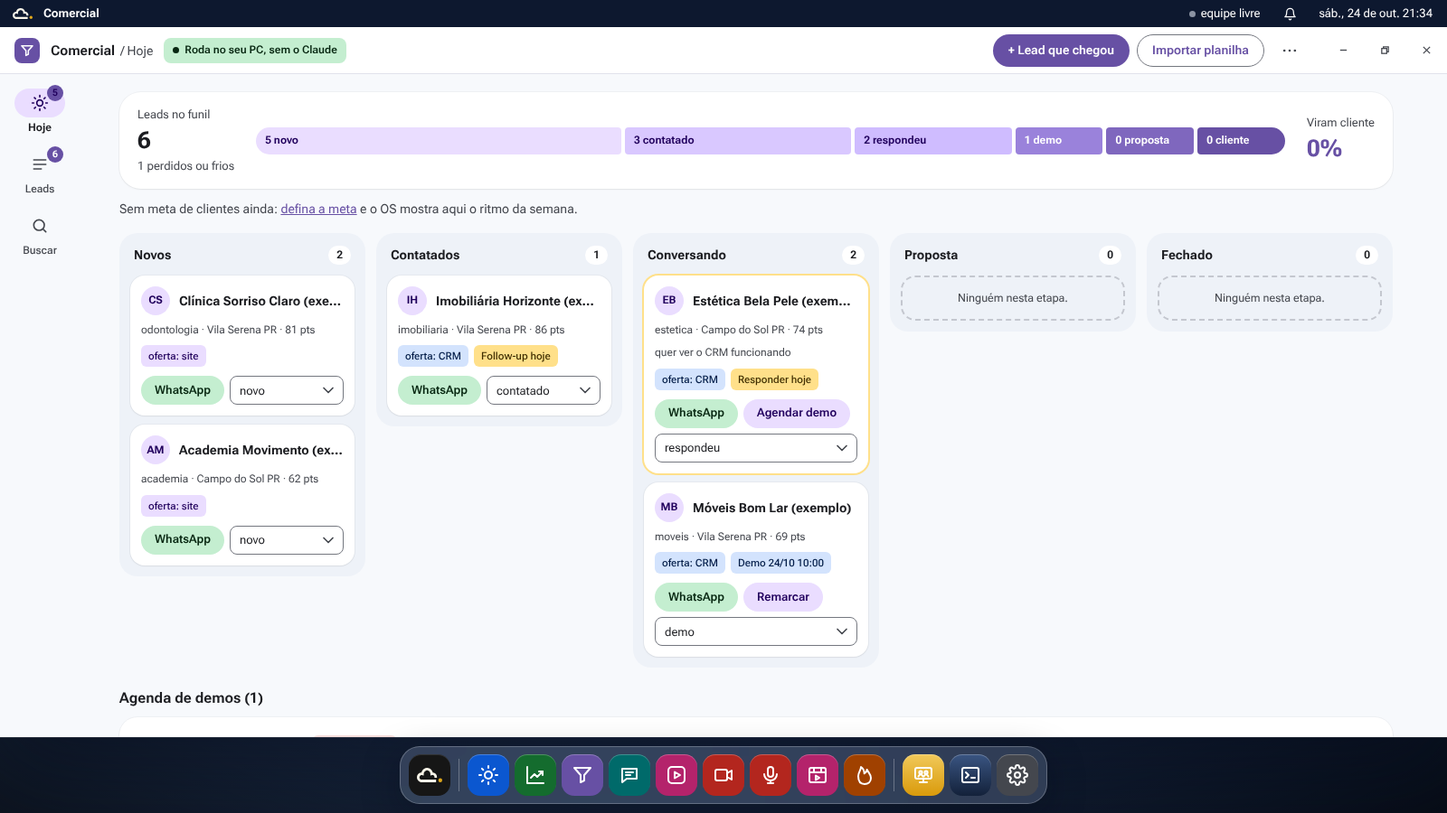
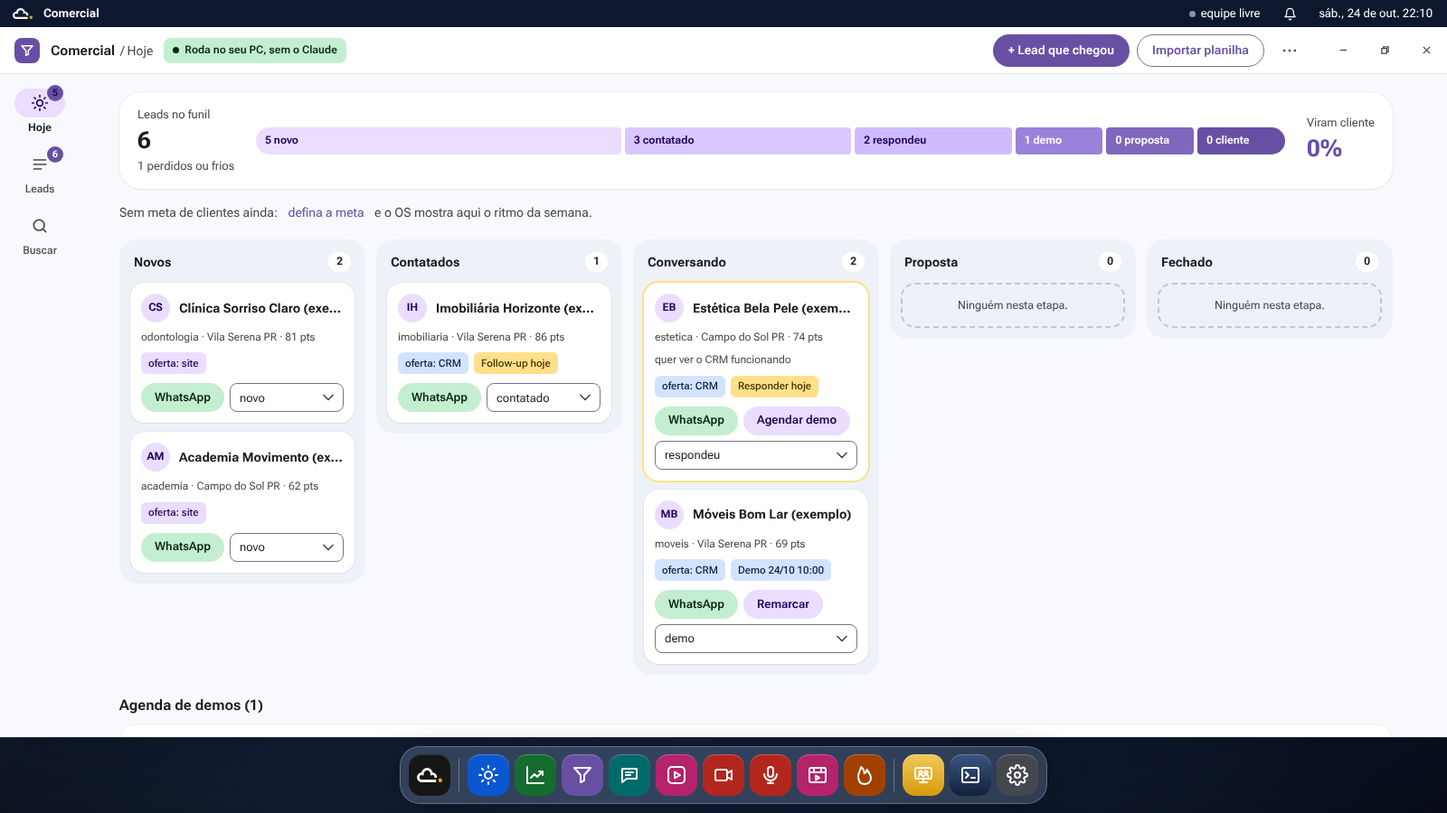
Segunda passada do visual: Conexões, Biblioteca (concorrentes, nichos, referências) e ações em texto
- Conexões: KPIs, cartão "Metricool visto pelos agentes" com cabeçalho, chip de situação, chips das redes e alerta tonal; tabela das redes com controle segmentado Ligada/Desligada e seletor tonal; provedores em cartões com chip de status e um único botão principal
- Concorrentes: avatar com iniciais, páginas vigiadas como chips de link e botões tonais
- Nichos: pilares em blocos, prioridade como medidor, Dor e Ganho em blocos tonais
- Referências: lista com bloco grande de views, chips de formato e pilar, botão tonal para o vídeo
- Links usados como ação viram botões de texto (Comercial, Atendimento, Conteúdo, Bom dia, Gerente)
- Alertas com borda vermelha à esquerda viram alertas tonais; selects dentro de tabelas ganham o estilo tonal
- Capturas da documentação atualizadas (comercial, atendimento, conteúdo)

Claude-Session: https://claude.ai/code/session_01EGWfUszHN2hFf65Augzvyr

diff --git a/central/escritorio/web/app.js b/central/escritorio/web/app.js
@@ -837,7 +837,7 @@ async function renderBriefing(j) {
   const texto = $('.objetivo-texto', j.corpo)?.value || '';
   const h = new Date().getHours(); const saud = h < 12 ? 'Bom dia' : h < 18 ? 'Boa tarde' : 'Boa noite';
   const data = new Date(`${d.data}T12:00:00`).toLocaleDateString('pt-BR', { weekday: 'long', day: 'numeric', month: 'long' });
-  const dono = (x) => (NOMES[x.dono] && x.dono !== 'você') ? `<a data-abrir="agente:${esc(x.dono)}" style="cursor:pointer">${sprite(x.dono, 16)} ${esc(nome(x.dono))}</a>` : `${esc(nome(x.dono))}`;
+  const dono = (x) => (NOMES[x.dono] && x.dono !== 'você') ? `<button type="button" class="bt-texto" data-abrir="agente:${esc(x.dono)}">${sprite(x.dono, 16)} ${esc(nome(x.dono))}</button>` : `${esc(nome(x.dono))}`;
   const top = d.itens.slice(0, 3); const resto = d.itens.slice(3);
   const botoesItem = (x, i) => `${destinoDoTexto(x.texto) ? `<button class="bt mini" data-fn="ir" data-i="${i}" title="Abre a janela certa">Abrir</button>` : ''}<button class="bt mini fantasma" data-fn="hojeNao" data-i="${i}" title="Some daqui até amanhã">Hoje não</button>`;
   j.corpo.innerHTML = `<div class="saudacao"><img src="/web/logo-marfim.svg" alt=""><div><h1>${saud}${EMPRESA.responsavel ? `, ${esc(EMPRESA.responsavel)}` : ''}</h1><p>${esc(data)}</p></div></div>
@@ -846,7 +846,7 @@ async function renderBriefing(j) {
   <h2>As 3 prioridades de hoje</h2><div class="lista">${top.map((x, i) => `<div class="prioridade"><span class="num">${i + 1}</span><div class="txt md">${md(x.texto).replace(/^<p>|<\/p>$/g, '')}<small>com ${dono(x)}</small></div><div class="acoes-item">${botoesItem(x, i)}</div></div>`).join('') || '<div class="vazio">Nada urgente. Bom dia para gravar conteúdo ou prospectar.</div>'}</div>
   <h2>Números</h2><div class="cartao md">${md(d.numeros.join('\n'))}</div>
   ${resto.length ? `<h2>Pendências</h2><div class="lista">${resto.map((x, k) => `<div class="linha-item"><div class="cresce md">${md(x.texto).replace(/^<p>|<\/p>$/g, '')}</div><small>${dono(x)}</small><div class="acoes-item">${botoesItem(x, k + 3)}</div></div>`).join('')}</div>` : ''}
-  ${adiados.length ? `<p class="sub">${adiados.length} item(ns) deixado(s) para amanhã · <a href="#" data-fn="mostrarAdiados">mostrar de novo</a></p>` : ''}
+  ${adiados.length ? `<p class="sub">${adiados.length} item(ns) deixado(s) para amanhã · <button type="button" class="bt-texto" data-fn="mostrarAdiados">Mostrar de novo</button></p>` : ''}
   <div class="acoes"><button class="bt pri" data-acao="briefing">${icone('play')} Atualizar briefing</button><button class="bt" data-acao="placar">Placar da semana</button><button class="bt" data-abrir="equipe">Equipe</button></div></div>`;
 }
 
@@ -1161,7 +1161,7 @@ function rumoCorpo(j, r) {
     ${ritmoFaixa(m)}
     ${m.avisos.length ? `<div class="lista" style="margin-top:8px">${m.avisos.map((a) => `<div class="linha-item achado medio"><span class="chip esperando">atenção</span><div class="cresce"><small style="white-space:normal">${esc(a)}</small></div></div>`).join('')}</div>` : ''}
     <details class="taxas"><summary>De onde vêm as taxas do funil</summary><table class="tab"><tr><th>Passo</th><th>Taxa</th><th>Origem</th><th>Seus números</th></tr>${Object.values(m.taxas).map((t) => `<tr><td>${esc(t.nome)}</td><td><b>${pctBr(t.valor)}</b></td><td><span class="chip ${ORIGEM[t.origem]}">${esc(t.origem)}</span></td><td>${esc(t.dados)}</td></tr>`).join('')}</table>
-      <p class="sub">A estimativa vira a sua taxa assim que houver dados suficientes (registre as abordagens, demos e testes no Comercial e no Financeiro). Para usar outro número, <a href="#" data-fn="meta">mude na meta</a>.</p></details>
+      <p class="sub">A estimativa vira a sua taxa assim que houver dados suficientes (registre as abordagens, demos e testes no Comercial e no Financeiro). Para usar outro número, <button type="button" class="bt-texto" data-fn="meta">mude na meta</button>.</p></details>
     <div class="acoes"><button class="bt" data-fn="meta">Mudar meta ou taxas</button><button class="bt pri" data-fn="crescer">Montar o plano de 90 dias com a equipe</button></div>`
     : `<div class="passos"><h2>Qual é a meta?</h2><p class="sub">Diga quantos clientes de CRM quer ter e até quando. O OS faz a conta de trás para frente: quantas abordagens, demos e testes grátis por semana, e mostra no Comercial se a semana está no ritmo.${m.sugestao ? ` Pelo Plano do ano, <b>${m.sugestao} clientes</b> pagam os custos e o seu pró-labore.` : ''}</p>
       <div class="acoes" style="margin-top:0"><button class="bt pri" data-fn="meta">Definir a meta</button></div></div>`;
@@ -1272,7 +1272,7 @@ async function renderComercial(j) {
       <li><button class="bt ${d.tem_consultas && !d.tem_resultado ? 'pri' : ''}" data-acao="sdr_buscar" ${d.tem_consultas && d.tem_buscador ? '' : 'disabled'}>Buscar no Google Maps</button>
         ${d.tem_buscador ? '<small class="neutro">leva de 5 a 30 minutos; acompanhe na janela que abre</small>' : '<small class="ruim">buscador não instalado: rode o instalar.cmd de novo</small>'}</li>
       <li><button class="bt ${d.tem_resultado ? 'pri' : ''}" data-acao="sdr_qualificar" ${d.tem_resultado ? '' : 'disabled'}>Qualificar o resultado</button> <small class="neutro">junta as empresas novas na sua lista de leads</small></li>
-      <li>Abra a aba <a data-fn="aba" data-aba="hoje" href="#">Hoje</a>: as melhores aparecem com a 1ª mensagem pronta.</li></ol></div>
+      <li>Abra a aba <button type="button" class="bt-texto" data-fn="aba" data-aba="hoje">Hoje</button>: as melhores aparecem com a 1ª mensagem pronta.</li></ol></div>
     <h2>Ou importe uma planilha</h2><p class="sub">De outra ferramenta, de um evento ou de uma lista que você já tem.</p><div class="acoes" style="margin-top:0"><button class="bt" data-fn="planilha">Importar planilha de leads</button></div>`;
   } else if (!d.funil) {
     corpo = `<div class="passos"><h2>Sem leads ainda</h2><ol><li><button class="bt pri" data-fn="aba" data-aba="buscar">Buscar empresas no Google Maps</button></li>
@@ -1290,8 +1290,8 @@ async function renderComercial(j) {
         <span class="chips-k">${chipOferta(l)}${l.agenda ? `<span class="chip trabalhando">Demo ${ddmm(l.agenda)} ${esc(l.agenda.slice(11, 16))}</span>` : hoje ? `<span class="chip esperando">${quente ? 'Responder hoje' : 'Follow-up hoje'}</span>` : ''}</span>
         <div class="acoes-k">${l.telefone ? `<a class="bt mini wa" href="${esc(zap(l.telefone))}" target="_blank" rel="noopener" title="${esc(l.telefone)}">WhatsApp</a>` : ''}${quente ? `<button class="bt mini tom" data-fn="agendar" data-id="${l.id}">${l.agenda ? 'Remarcar' : 'Agendar demo'}</button>` : ''}${etapaSel(l)}</div></article>`; };
     const quadro = `<div class="kanban">${COLS_LEAD.map(([k, r, ets]) => { const l = d.leads.filter((x) => ets.includes(x.etapa)).sort((a, b) => (+b.pontos || 0) - (+a.pontos || 0)); const mostra = l.slice(0, 6);
-      return `<section class="coluna" aria-label="${r}"><div class="coluna-cab"><b>${r}</b><span class="contador">${l.length}</span></div>${mostra.map(cartaoLead).join('') || '<div class="vazio-coluna">Ninguém nesta etapa.</div>'}${l.length > mostra.length ? `<a href="#" class="mais-k" data-fn="aba" data-aba="leads">+${l.length - mostra.length} em Leads</a>` : ''}</section>`; }).join('')}</div>`;
-    corpo = `${funil}${d.ritmo && d.ritmo.tem_meta ? ritmoFaixa(d.ritmo, true) : `<p class="sub" style="margin-top:12px">Sem meta de clientes ainda: <a href="#" data-fn="definirMeta">defina a meta</a> e o OS mostra aqui o ritmo da semana.</p>`}${quadro}
+      return `<section class="coluna" aria-label="${r}"><div class="coluna-cab"><b>${r}</b><span class="contador">${l.length}</span></div>${mostra.map(cartaoLead).join('') || '<div class="vazio-coluna">Ninguém nesta etapa.</div>'}${l.length > mostra.length ? `<button type="button" class="bt-texto mais-k" data-fn="aba" data-aba="leads">+${l.length - mostra.length} em Leads</button>` : ''}</section>`; }).join('')}</div>`;
+    corpo = `${funil}${d.ritmo && d.ritmo.tem_meta ? ritmoFaixa(d.ritmo, true) : `<p class="sub" style="margin-top:12px">Sem meta de clientes ainda: <button type="button" class="bt-texto" data-fn="definirMeta">defina a meta</button> e o OS mostra aqui o ritmo da semana.</p>`}${quadro}
     ${d.agenda.proximas.length ? `<h2>Agenda de demos (${d.agenda.proximas.length})</h2>${d.agenda.proximas.map((a, i) => msgSimples(a, i, 'agenda_proximas',
       `${esc(a.empresa)} <span class="chip ${a.dias === 0 ? 'erro' : 'esperando'}">${a.dias === 0 ? 'hoje' : a.dias === 1 ? 'amanhã' : ddmm(a.quando)} às ${esc(a.quando.slice(11, 16))}</span> <small class="neutro">${a.dias === 0 ? 'lembrete' : 'confirmação'}</small>`,
       `<a class="bt" href="${esc(a.agenda_google)}" target="_blank" rel="noopener">Google Agenda</a><button class="bt" data-fn="agendar" data-id="${a.id}">Remarcar</button>`)).join('')}` : ''}
@@ -1405,7 +1405,7 @@ async function renderConteudo(j) {
   const producao = `${kpisProd}${banner}${d.quadro.length ? `<div class="kanban">${COLUNAS.map(([k, r, vazio]) => { const l = porColuna[k]; const mostra = k === 'noar' ? l.slice(0, 6) : l;
     return `<section class="coluna" aria-label="${esc(r)}"><div class="coluna-cab"><b>${esc(r)}</b><span class="contador">${l.length}</span></div>${mostra.map(cartaoPost).join('') || `<div class="vazio-coluna">${esc(vazio)}</div>`}${l.length > mostra.length ? `<small class="neutro mais-k">+${l.length - mostra.length} mais antigos</small>` : ''}</section>`; }).join('')}</div>`
     : '<div class="vazio" style="margin-top:16px">Nenhum post na agenda. Cada roteiro vira um cartão aqui e anda pelas colunas até ir ao ar.<div class="acoes" style="justify-content:center"><button class="bt pri" data-abrir="objetivos">Semana de conteúdo</button><button class="bt" data-abrir="video">Novo roteiro no Estúdio</button></div></div>'}`;
-  const rodapeProducao = `<p class="sub rodape-k">Próximos horários livres (seg, qua e sex às 10h): ${d.horarios.map((h) => ddmm(h)).join(', ')}. Para criar posts novos: <a data-abrir="objetivos" style="cursor:pointer;color:var(--app)">Objetivos → Semana de conteúdo</a>.</p>`;
+  const rodapeProducao = `<p class="sub rodape-k">Próximos horários livres (seg, qua e sex às 10h): ${d.horarios.map((h) => ddmm(h)).join(', ')}. Para criar posts novos: <button type="button" class="bt-texto" data-abrir="objetivos">Objetivos → Semana de conteúdo</button>.</p>`;
   const analise = `<div class="acoes" style="margin-top:12px"><button class="bt pri" data-acao="relatorio">${icone('play')} Gerar o relatório da semana</button><button class="bt" data-fn="retrato">Anotar números novos</button>
     <button class="bt" data-fn="analisar" title="Abre o Claude com o analista">Discutir com o Analista</button></div>
     ${d.relatorio ? `<p class="sub">${esc(d.relatorio.arquivo)} · o que mudar está no fim.</p><div class="cartao md">${md(d.relatorio.texto)}</div>` : '<div class="vazio">Sem relatório ainda. Anote os números do Instagram e clique em <b>Gerar o relatório da semana</b>.</div>'}`;
@@ -1444,39 +1444,60 @@ async function renderConexoes(j) {
     exportar: () => rapido('social_exportar', {}, 'Histórico exportado'),
   };
   j.fns.mudarRede = ({ rede, campo }, el) => { operar('conexao_rede', campo === 'ativa' ? { rede, ativa: el.value === 'sim' } : { rede, via: el.value }).then((r) => { if (!r.ok) aviso({ titulo: 'Não deu', texto: r.saida, cor: '#C8442F' }); }); };
+  // piloto ligado/desligado num controle segmentado: mesmo pedido que o antigo <select>, só muda a marcação
+  j.fns.redeAtiva = ({ rede, v }, el) => { el.parentElement.querySelectorAll('button').forEach((b) => b.setAttribute('aria-pressed', String(b === el)));
+    operar('conexao_rede', { rede, ativa: v === 'sim' }).then((r) => { if (!r.ok) aviso({ titulo: 'Não deu', texto: r.saida, cor: '#C8442F' }); }); };
   const situacao = (p) => { const e = p.estado || {};
     if (!e.conectado && !(p.id === 'claude')) return '<span class="chip parado">não conectado</span>';
     if (e.ok === false) return `<span class="chip erro" title="${esc(e.mensagem || '')}">caiu${e.caiu_em ? ` em ${quandoBr(e.caiu_em)}` : ''}</span>`;
-    if (e.ok) return `<span class="chip trabalhando">conectado</span>`;
+    if (e.ok) return `<span class="chip pronto">conectado</span>`;
     return '<span class="chip">não checado</span>'; };
+  const alerta = (cor, html, extra = '') => `<div class="alerta-tonal ${cor}" role="status">${icone('aviso')}<div class="cresce">${html}</div>${extra}</div>`;
   const M = d.metricool || {};
   const redesMc = [...new Set([...(M.conectadas || []), ...(M.faltam || [])])];
-  const metricool = `<div class="cartao metricool-conf ${M.ok === false ? 'alerta' : ''}"><div class="cab-conexao"><b>Metricool visto pelos agentes</b>${M.ok === true ? `<span class="chip ${M.velha ? '' : 'trabalhando'}">${M.velha ? 'conferir de novo' : 'tudo certo'}</span>` : M.ok === false ? '<span class="chip erro">falta conectar</span>' : '<span class="chip">não conferido</span>'}
-      ${M.marca ? `<small class="neutro">marca ${esc(M.marca.nome)}</small>` : ''}</div>
-    <p class="sub" style="margin:4px 0">Antes de agendar, puxar números ou estudar concorrentes, os agentes conferem se as redes que o OS usa estão conectadas na marca do Metricool. Se faltar alguma, eles param e avisam.</p>
-    ${M.ok === false ? `<div class="linha-item achado alto"><small style="white-space:normal"><b>${esc(M.mensagem || '')}.</b> Entre em <a href="https://app.metricool.com/" target="_blank" rel="noopener">app.metricool.com</a> → Conexões, reconecte e clique em Conferir agora. Até lá o piloto segura os posts dessa rede.</small></div>` : ''}
-    ${redesMc.length ? `<div class="acoes-linha">${redesMc.map((r) => `<span class="chip ${(M.faltam || []).includes(r) ? 'erro' : 'pronto'}">${(M.faltam || []).includes(r) ? '✕' : '✓'} ${esc((M.nomes || {})[r] || r)}${M.contas && M.contas[r] ? ` · ${esc(M.contas[r])}` : ''}</span>`).join('')}</div>` : ''}
-    <div class="acoes-linha" style="margin-top:8px"><button class="bt mini pri" data-acao="metricool_conferir">Conferir agora</button><small class="neutro">${M.quando ? `conferido em ${quandoBr(M.quando)}` : 'ainda não conferido'}</small></div></div>`;
+  const chipMc = M.ok === true ? `<span class="chip ${M.velha ? 'esperando' : 'pronto'}">${M.velha ? 'conferir de novo' : 'tudo certo'}</span>` : M.ok === false ? '<span class="chip erro">falta conectar</span>' : '<span class="chip parado">não conferido</span>';
+  const metricool = `<section class="cartao cartao-conexao metricool-conf"><header class="cab-cartao"><span class="ic-tile">${icone('radar')}</span>
+      <div class="cresce"><b>Metricool visto pelos agentes</b><small>${M.marca ? `marca ${esc(M.marca.nome)}` : 'as redes que o OS usa, na marca do Metricool'}</small></div>${chipMc}</header>
+    <p class="sub">Antes de agendar, puxar números ou estudar concorrentes, os agentes conferem se as redes que o OS usa estão conectadas na marca do Metricool. Se faltar alguma, eles param e avisam.</p>
+    ${M.ok === false ? alerta('erro', `<b>${esc(M.mensagem || '')}.</b> Reconecte no Metricool (Conexões) e clique em Conferir agora. Até lá o piloto segura os posts dessa rede.`, '<a class="bt mini fantasma" href="https://app.metricool.com/" target="_blank" rel="noopener">Abrir o Metricool</a>') : ''}
+    ${redesMc.length ? `<div class="chips-linha">${redesMc.map((r) => `<span class="chip ${(M.faltam || []).includes(r) ? 'erro' : 'pronto'}">${(M.faltam || []).includes(r) ? '✕' : '✓'} ${esc((M.nomes || {})[r] || r)}${M.contas && M.contas[r] ? ` · ${esc(M.contas[r])}` : ''}</span>`).join('')}</div>` : ''}
+    <footer class="acoes-cartao"><button class="bt pri" data-acao="metricool_conferir">Conferir agora</button><small class="neutro">${M.quando ? `conferido em ${quandoBr(M.quando)}` : 'ainda não conferido'}</small></footer></section>`;
   const redes = Object.entries(d.redes).map(([rede, r]) => {
-    const opcoes = d.provedores.filter((p) => p.publica.includes(rede));
-    return `<tr><td><b>${esc(d.nomes_redes[rede])}</b></td><td><select data-mudar="mudarRede" data-rede="${rede}" data-campo="ativa"><option value="sim" ${r.ativa ? 'selected' : ''}>ligada</option><option value="nao" ${r.ativa ? '' : 'selected'}>desligada</option></select></td>
-      <td><select data-mudar="mudarRede" data-rede="${rede}" data-campo="via"><option value="">— escolha —</option>${opcoes.map((p) => `<option value="${p.id}" ${r.via === p.id ? 'selected' : ''}>${esc(p.nome)}</option>`).join('')}</select></td>
-      <td>${!r.via ? '<small class="neutro">sem provedor: não publica</small>' : r.ativa && ['claude', 'metricool'].includes(r.via) && (M.faltam || []).includes(rede) && M.ok === false ? '<span class="chip erro">desconectado no Metricool</span>' : situacao(porId[r.via])}</td></tr>`; }).join('');
+    const opcoes = d.provedores.filter((p) => p.publica.includes(rede)); const nomeR = d.nomes_redes[rede];
+    return `<tr><td><span class="rede-tab"><span class="avatar-ini">${esc(iniciais(nomeR))}</span><b>${esc(nomeR)}</b></span></td>
+      <td><div class="seg-mini" role="group" aria-label="Piloto · ${esc(nomeR)}"><button type="button" data-fn="redeAtiva" data-rede="${rede}" data-v="sim" aria-pressed="${r.ativa}">Ligada</button><button type="button" data-fn="redeAtiva" data-rede="${rede}" data-v="nao" aria-pressed="${!r.ativa}">Desligada</button></div></td>
+      <td><select class="sel-tonal" aria-label="Publica por · ${esc(nomeR)}" data-mudar="mudarRede" data-rede="${rede}" data-campo="via"><option value="">Escolha o provedor</option>${opcoes.map((p) => `<option value="${p.id}" ${r.via === p.id ? 'selected' : ''}>${esc(p.nome)}</option>`).join('')}</select></td>
+      <td>${!r.via ? '<span class="chip parado">sem provedor: não publica</span>' : r.ativa && ['claude', 'metricool'].includes(r.via) && (M.faltam || []).includes(rede) && M.ok === false ? '<span class="chip erro">desconectado no Metricool</span>' : situacao(porId[r.via])}</td></tr>`; }).join('');
   const cartao = (p) => { const e = p.estado || {}; const h = p.historico || {};
-    return `<div class="cartao conexao"><div class="cab-conexao"><b>${esc(p.nome)}</b>${situacao(p)}${e.conta ? `<small class="neutro">${esc(e.conta)}</small>` : ''}</div>
-      <p class="sub" style="margin:4px 0">${esc(p.ajuda)}${p.limite ? ` <span class="neutro">· ${esc(p.limite)}</span>` : ''}</p>
-      ${e.ok === false ? `<div class="linha-item achado alto"><small style="white-space:normal">${esc(e.mensagem || '')}</small></div>` : ''}
-      <small class="neutro">Redes: ${p.redes.map((r) => d.nomes_redes[r]).join(', ')}${e.ultima_checagem ? ` · checado em ${quandoBr(e.ultima_checagem)}` : ''}
-        · guardado no PC: ${h.publicacoes || 0} publicações, ${h.comentarios || 0} comentários${h.desde ? ` desde ${ddmm(h.desde)}` : ''}${h.ultima_sync ? ` · última sincronização ${quandoBr(h.ultima_sync)}` : ''}</small>
-      <div class="acoes-linha" style="margin-top:8px">${p.campos.length ? `<button class="bt mini ${e.conectado ? '' : 'pri'}" data-fn="conectar" data-id="${p.id}">${e.conectado ? 'Editar' : 'Conectar'}</button>` : ''}
-        ${p.oauth ? `<button class="bt mini ${p.logado ? '' : 'pri'}" data-fn="entrar" data-id="${p.id}">${p.logado ? 'Entrar de novo' : `Entrar com ${p.id === 'youtube' ? 'o Google' : 'o TikTok'}`}</button>` : ''}
-        <button class="bt mini" data-fn="checar" data-id="${p.id}">Checar agora</button>${e.conectado && p.campos.length ? `<button class="bt mini" data-fn="desconectar" data-id="${p.id}">Desconectar</button>` : ''}</div></div>`; };
+    const bts = [];
+    if (p.campos.length) bts.push(['conectar', e.conectado ? 'Editar' : 'Conectar', !e.conectado]);
+    if (p.oauth) bts.push(['entrar', p.logado ? 'Entrar de novo' : `Entrar com ${p.id === 'youtube' ? 'o Google' : 'o TikTok'}`, !p.logado]);
+    const iPri = bts.findIndex((b) => b[2]); // um botão cheio por cartão; os outros com tom
+    return `<article class="cartao cartao-conexao"><header class="cab-cartao"><span class="ic-tile">${esc(iniciais(p.nome))}</span>
+        <div class="cresce"><b>${esc(p.nome)}</b><small>${e.conta ? esc(e.conta) : e.ultima_checagem ? `checado em ${quandoBr(e.ultima_checagem)}` : 'ainda não checado'}</small></div>${situacao(p)}</header>
+      <p class="sub">${esc(p.ajuda)}</p>${p.limite ? `<p class="limite-conexao">${esc(p.limite)}</p>` : ''}
+      ${e.ok === false ? alerta('erro', esc(e.mensagem || '')) : ''}
+      <div class="chips-linha">${p.redes.map((r) => `<span class="chip">${esc(d.nomes_redes[r])}</span>`).join('')}</div>
+      <small class="neutro">Guardado no PC: ${h.publicacoes || 0} publicações e ${h.comentarios || 0} comentários${h.desde ? ` desde ${ddmm(h.desde)}` : ''}${h.ultima_sync ? ` · sincronizado em ${quandoBr(h.ultima_sync)}` : ''}</small>
+      <footer class="acoes-cartao">${bts.map(([fn, rot], i) => `<button class="bt mini ${i === iPri ? 'pri' : 'tom'}" data-fn="${fn}" data-id="${p.id}">${rot}</button>`).join('')}
+        <button class="bt mini fantasma" data-fn="checar" data-id="${p.id}">Checar agora</button>${e.conectado && p.campos.length ? `<button class="bt mini fantasma" data-fn="desconectar" data-id="${p.id}">Desconectar</button>` : ''}</footer></article>`; };
+  // resumo primeiro: o que publica, o que está conectado e o que já está guardado no PC
+  const ativas = Object.values(d.redes).filter((r) => r.ativa && r.via).length; const nRedes = Object.keys(d.redes).length;
+  const conectados = d.provedores.filter((p) => (p.estado || {}).conectado).length;
+  const guardado = d.provedores.reduce((t, p) => t + ((p.historico || {}).publicacoes || 0), 0);
+  const comentarios = d.provedores.reduce((t, p) => t + ((p.historico || {}).comentarios || 0), 0);
+  const caidos = d.provedores.filter((p) => (p.estado || {}).ok === false).length;
+  const kpi = (r, v, e, tom = '') => `<div class="kpi ${tom}"><small>${r}</small><strong>${v}</strong><em>${e}</em></div>`;
+  const kpis = `<div class="kpis kpis-conexao">${kpi('Redes publicando', ativas, `de ${nRedes} redes`, ativas ? 'verde' : 'amarelo')}${kpi('Provedores conectados', conectados, `de ${d.provedores.length}`, caidos ? 'vermelho' : '')}
+    ${kpi('Metricool', M.ok === true ? 'Tudo certo' : M.ok === false ? 'Falta conectar' : 'Não conferido', M.quando ? `conferido em ${quandoBr(M.quando)}` : 'os agentes conferem antes de agendar', M.ok === true ? 'verde' : M.ok === false ? 'vermelho' : '')}
+    ${kpi('Guardado no PC', num(guardado), `publicações · ${num(comentarios)} comentários`)}</div>`;
   j.corpo.innerHTML = `<div class="pagina"><h1>Conexões</h1><p class="sub">Metricool, Instagram, YouTube e TikTok. Tudo o que vem deles é copiado para o seu PC: se um provedor cair ou for desconectado, você não perde histórico nem trabalho, e os posts esperam na fila até a conexão voltar.</p>
-  ${d.cofre_protegido ? '' : '<div class="faixa">Neste sistema as senhas ficam só codificadas (sem a proteção do Windows). No seu PC com Windows elas são cifradas.</div>'}
+  <div class="acoes topo"><button class="bt pri" data-acao="sincronizar">Sincronizar agora</button><button class="bt" data-fn="exportar" title="Tudo em CSV, em estado/exportacao">Exportar histórico (CSV)</button></div>
+  ${kpis}
+  ${d.cofre_protegido ? '' : faixaAvisos(['Neste sistema as senhas ficam só codificadas (sem a proteção do Windows). No seu PC com Windows elas são cifradas.'], '')}
   ${metricool}
-  <h2>Por onde cada rede publica</h2><table class="tab"><tr><th>Rede</th><th>Piloto</th><th>Publica por</th><th>Situação</th></tr>${redes}</table>
-  <h2>Provedores</h2><div class="grade2">${d.provedores.map(cartao).join('')}</div>
-  <div class="acoes"><button class="bt pri" data-acao="sincronizar">Sincronizar agora</button><button class="bt" data-fn="exportar" title="Tudo em CSV, em estado/exportacao">Exportar histórico (CSV)</button></div></div>`;
+  <h2>Por onde cada rede publica</h2><table class="tab tab-redes"><tr><th>Rede</th><th>Piloto</th><th>Publica por</th><th>Situação</th></tr>${redes}</table>
+  <h2>Provedores</h2><div class="grade-conexoes">${d.provedores.map(cartao).join('')}</div></div>`;
 }
 
 // ------------------------------------------------------------------ apps: rede social (piloto, calendário, comentários, resultados)
@@ -1808,7 +1829,7 @@ async function renderAtendimento(j) {
   const lado = `<aside class="painel"><div class="cab-faq"><div class="anel" style="--p:${pct}%" role="img" aria-label="${completas} de ${d.faq.length} respostas completas"><span>${completas}/${d.faq.length}</span></div>
       <div><b>${!d.faq.length ? 'FAQ vazio' : faltam.length ? (pct >= 60 ? 'FAQ quase completo' : 'Complete o FAQ') : 'FAQ completo'}</b><small>${faltam.length ? `Faltam ${faltam.length} resposta${faltam.length > 1 ? 's' : ''} que todo cliente pede` : 'Todas as perguntas têm resposta'}</small></div></div>
     ${faltam.length ? `<div class="lista-faltam">${faltam.map((x) => `<div><span>${esc(x.pergunta)}<small>${esc(x.resposta || '(vazia)')}</small></span><button class="bt mini tom" data-fn="completar" data-i="${x.i}">Responder</button></div>`).join('')}</div>` : ''}
-    <div class="acoes-linha"><a href="#" data-fn="aba" data-aba="faq">Ver o FAQ inteiro</a><span style="flex:1"></span><button class="bt mini fantasma" data-fn="nova">+ Pergunta nova</button></div></aside>`;
+    <div class="acoes-linha"><button type="button" class="bt-texto" data-fn="aba" data-aba="faq">Ver o FAQ inteiro</button><span style="flex:1"></span><button class="bt mini fantasma" data-fn="nova">+ Pergunta nova</button></div></aside>`;
   const chipsPara = d.clientes.slice(0, 3).map((c) => `<button class="chip-filtro ${j.para === c.id ? 'on' : ''}" data-fn="para" data-id="${esc(c.id)}" aria-pressed="${j.para === c.id}" title="${esc(c.empresa)}${c.contato ? ` · ${esc(c.contato)}` : ''}">${esc(c.empresa.replace(/\s*\(exemplo\)/, ''))}</button>`).join('');
   const respostas = !j.achados ? '' : `${j.achados.length ? j.achados.map((a, i) => `<section class="painel resposta-faq"><div class="cab"><b>${i ? 'Outra resposta' : 'Resposta pronta'} · ${esc(a.pergunta)}</b><span class="chip">Do FAQ: ${esc(a.secao)}</span>${a.completa ? '' : '<span class="chip esperando">resposta incompleta</span>'}</div>
       <div class="bolha-wa"><textarea class="texto-msg" data-resp="${i}" rows="3" aria-label="Resposta para o cliente">${esc(a.resposta)}</textarea></div>
@@ -2149,7 +2170,6 @@ const SECOES_BIB = [['posts', 'Posts'], ['videos', 'Vídeos'], ['capas', 'Capas'
 const ROT_PESQUISA = { concorrentes: 'Os concorrentes que a vigia acompanha e o pesquisador estuda.', nichos: 'Os temas do conteúdo e os nichos de cliente que a busca de leads usa.',
   referencias: 'Vídeos que viralizaram e servem de modelo de gancho, e onde o radar procura novidades.' };
 const visCurto = (v) => { const n = +v || 0; return n >= 1e6 ? `${(n / 1e6).toFixed(1).replace('.', ',')} mi` : n >= 1e3 ? `${Math.round(n / 1e3)} mil` : n ? String(n) : ''; };
-const linkExt = (url, rot) => `<a href="${esc(url)}" target="_blank" rel="noopener">${esc(rot)}</a>`;
 // abas Concorrentes, Nichos e Referências (central/pesquisa.py): o que orienta a pesquisa, com cadastro
 function pesquisaBib(j, P) {
   const formConc = (c = {}) => dialogo(j, { titulo: c.nome ? `Editar ${c.nome}` : 'Novo concorrente', botao: 'Salvar',
@@ -2172,29 +2192,33 @@ function pesquisaBib(j, P) {
     novoConcorrente: () => formConc(), editarConcorrente: ({ i }) => formConc(P.concorrentes[+i]),
     novoNicho: () => formNicho(), editarNicho: ({ i }) => formNicho(P.nichos[+i]), novaReferencia: () => formRef(),
   });
+  const linkChip = (url, rot) => `<a class="chip-link" href="${esc(url)}" target="_blank" rel="noopener" title="${esc(url)}">${esc(rot)}<span aria-hidden="true">↗</span></a>`;
+  const linkBt = (url, rot) => `<a class="bt mini tom" href="${esc(url)}" target="_blank" rel="noopener">${esc(rot)}</a>`;
   if (j.aba === 'concorrentes') {
     const add = '<button class="bt pri" data-fn="novoConcorrente">+ Concorrente</button>';
     return `<div class="acoes-linha cab-pesquisa">${add}<button class="bt" data-acao="vigia">Rodar a vigia agora</button></div>` + (P.concorrentes.length ? `<div class="grade-pesquisa">${P.concorrentes.map((c, i) => `<article class="cartao-pesquisa">
-      <header><span class="avatar-bib">${esc((c.nome || '?').slice(0, 1).toUpperCase())}</span><div><b>${esc(c.nome)}</b>${c.instagram ? `<small>${linkExt(`https://www.instagram.com/${c.instagram}/`, `@${c.instagram}`)}</small>` : '<small class="neutro">sem Instagram</small>'}</div>
-        <button class="bt mini" data-fn="editarConcorrente" data-i="${i}">Editar</button></header>
-      <ul class="links-bib">${c.urls.map((u) => `<li>${linkExt(u.url, u.rotulo)}${u.conferir ? ' <span class="chip esperando">conferir</span>' : ''}</li>`).join('') || '<li class="neutro">Nenhuma página para vigiar.</li>'}</ul>
-      ${c.anuncios ? `<footer>${linkExt(`https://www.facebook.com/ads/library/?active_status=active&ad_type=all&country=BR&q=${encodeURIComponent(c.anuncios)}`, 'Ver anúncios na Meta')}</footer>` : ''}</article>`).join('')}</div>`
-      : '<div class="vazio">Nenhum concorrente ainda. Cadastre quem disputa o mesmo cliente que você.</div>');
+      <header class="cab-cartao"><span class="ic-tile">${esc(iniciais(c.nome))}</span><div class="cresce"><b>${esc(c.nome)}</b><small>${c.instagram ? `@${esc(c.instagram)}` : 'sem Instagram'}${c.anuncios ? ' · anúncios na Meta' : ''}</small></div>
+        <button class="bt mini fantasma" data-fn="editarConcorrente" data-i="${i}">Editar</button></header>
+      <div class="bloco-pesquisa"><small>Páginas vigiadas</small>${c.urls.length ? `<div class="chips-linha">${c.urls.map((u) => `${linkChip(u.url, u.rotulo)}${u.conferir ? '<span class="chip esperando" title="A vigia viu mudança: confira">conferir</span>' : ''}`).join('')}</div>` : '<p class="neutro">Nenhuma página para vigiar ainda. Clique em Editar para incluir.</p>'}</div>
+      ${c.instagram || c.anuncios ? `<footer class="acoes-cartao">${c.instagram ? linkBt(`https://www.instagram.com/${c.instagram}/`, 'Ver no Instagram') : ''}${c.anuncios ? linkBt(`https://www.facebook.com/ads/library/?active_status=active&ad_type=all&country=BR&q=${encodeURIComponent(c.anuncios)}`, 'Ver anúncios na Meta') : ''}</footer>` : ''}</article>`).join('')}</div>`
+      : `<div class="vazio">Nenhum concorrente ainda. Cadastre quem disputa o mesmo cliente que você.<div class="acoes" style="justify-content:center">${add}</div></div>`);
   }
   if (j.aba === 'nichos') {
-    const pontos = (n) => `<span class="prioridade-bib" title="Prioridade ${n} de 5">${[1, 2, 3, 4, 5].map((k) => `<i class="${k <= n ? 'on' : ''}"></i>`).join('')}</span>`;
-    return `<h2>Pilares do conteúdo</h2><p class="sub">Os temas que o radar procura e o roteirista usa.</p><div class="grade-pilares">${P.pilares.map((p) => `<div class="pilar-bib"><b>${esc(p.nome)}</b><small>${p.referencias} ${p.referencias === 1 ? 'referência' : 'referências'}</small></div>`).join('')}</div>
+    const medidor = (n) => `<div class="medidor-nicho"><span class="medidor" role="meter" aria-valuemin="1" aria-valuemax="5" aria-valuenow="${n}" aria-label="Prioridade ${n} de 5"><i style="width:${n * 20}%"></i></span><small>Prioridade ${n} de 5</small></div>`;
+    return `<h2>Pilares do conteúdo</h2><p class="sub">Os temas que o radar procura e o roteirista usa.</p><div class="grade-pilares">${P.pilares.map((p) => `<div class="pilar-bib"><strong>${p.referencias}</strong><b>${esc(p.nome)}</b><small>${p.referencias === 1 ? 'referência' : 'referências'}</small></div>`).join('')}</div>
       <div class="cab-bib cab-nichos"><div><h2>Nichos de cliente</h2><p class="sub">Para quem a empresa vende. A busca de leads procura estes termos${P.cidades.length ? ` em ${esc(P.cidades.join(', '))}` : ''}.</p></div><button class="bt pri" data-fn="novoNicho">+ Nicho</button></div>
-      ${P.nichos.length ? `<div class="grade-pesquisa">${P.nichos.map((n, i) => `<article class="cartao-pesquisa"><header><div><b>${esc(n.nome)}</b>${pontos(n.prioridade)}</div><button class="bt mini" data-fn="editarNicho" data-i="${i}">Editar</button></header>
-        ${n.dor ? `<p><small class="neutro">Dor</small>${esc(n.dor)}</p>` : ''}${n.valor ? `<p><small class="neutro">Ganho</small>${esc(n.valor)}</p>` : ''}
-        <footer>${n.termos.map((t) => `<span class="chip">${esc(t)}</span>`).join('')}</footer></article>`).join('')}</div>` : '<div class="vazio">Nenhum nicho ainda.</div>'}`;
+      ${P.nichos.length ? `<div class="grade-pesquisa">${P.nichos.map((n, i) => `<article class="cartao-pesquisa"><header class="cab-cartao"><span class="ic-tile">${esc(iniciais(n.nome))}</span><div class="cresce"><b>${esc(n.nome)}</b>${medidor(n.prioridade)}</div>
+          <button class="bt mini fantasma" data-fn="editarNicho" data-i="${i}">Editar</button></header>
+        ${n.dor || n.valor ? `<div class="dor-ganho">${n.dor ? `<div class="dor"><small>Dor</small><p>${esc(n.dor)}</p></div>` : ''}${n.valor ? `<div class="ganho"><small>Ganho</small><p>${esc(n.valor)}</p></div>` : ''}</div>` : ''}
+        <footer class="bloco-pesquisa"><small>Busca no Google Maps</small><div class="chips-linha">${n.termos.map((t) => `<span class="chip">${esc(t)}</span>`).join('') || '<span class="neutro">sem termos</span>'}</div></footer></article>`).join('')}</div>` : '<div class="vazio">Nenhum nicho ainda. Cadastre para quem a empresa vende e a busca de leads passa a usar.</div>'}`;
   }
-  const refs = P.referencias.length ? `<div class="lista-refs">${P.referencias.map((r) => `<article class="ref-bib"><div class="views-bib"><b>${visCurto(r.views) || '—'}</b><small>views</small></div>
+  const maxViews = Math.max(1, ...P.referencias.map((r) => +r.views || 0));
+  const refs = P.referencias.length ? `<div class="lista-refs">${P.referencias.map((r) => `<article class="ref-bib"><div class="views-bib ${(+r.views || 0) >= maxViews * 0.5 ? 'alta' : ''}"><b>${visCurto(r.views) || '—'}</b><small>views</small></div>
       <div class="cresce"><b>${esc(r.gancho)}</b><small>${esc(r.perfil || '')}${r.nosso ? ' · nosso' : ''}${r.data ? ` · ${ddmm(r.data)}` : ''}</small>
-      <div class="chips-ref"><span class="chip trabalhando" title="${esc(r.formato_rotulo)}">${esc(r.formato || 'outro')}</span>${r.pilar ? `<span class="chip">${esc((P.pilares.find((p) => p.id === r.pilar) || { nome: r.pilar }).nome)}</span>` : ''}</div>
-      ${r.porque ? `<p>${esc(r.porque)}</p>` : ''}</div>${r.url ? linkExt(r.url, 'Abrir') : ''}</article>`).join('')}</div>` : '<div class="vazio">Nenhuma referência ainda. Guarde um vídeo que viralizou para virar modelo de gancho.</div>';
+      <div class="chips-ref"><span class="chip trabalhando" title="${esc(r.formato_rotulo)}">${esc(r.formato || 'outro')}</span>${r.pilar ? `<span class="chip app">${esc((P.pilares.find((p) => p.id === r.pilar) || { nome: r.pilar }).nome)}</span>` : ''}${r.nosso ? '<span class="chip pronto">nosso</span>' : ''}</div>
+      ${r.porque ? `<p><span>Por que funcionou</span>${esc(r.porque)}</p>` : ''}</div>${r.url ? linkBt(r.url, 'Abrir o vídeo') : ''}</article>`).join('')}</div>` : '<div class="vazio">Nenhuma referência ainda. Guarde um vídeo que viralizou para virar modelo de gancho.</div>';
   return `<div class="cab-bib"><h2>Vídeos de referência</h2><button class="bt pri" data-fn="novaReferencia">+ Referência</button></div>${refs}
-    <h2>Onde o radar procura</h2><div class="grade-pesquisa">${Object.entries(P.buscas).map(([fonte, l]) => `<article class="cartao-pesquisa"><header><b>${esc(fonte)}</b></header><footer>${l.map((t) => `<span class="chip">${esc(t)}</span>`).join('')}</footer></article>`).join('')}</div>`;
+    <h2>Onde o radar procura</h2><div class="grade-pesquisa">${Object.entries(P.buscas).map(([fonte, l]) => `<article class="cartao-pesquisa"><header class="cab-cartao"><span class="ic-tile">${icone('radar')}</span><div class="cresce"><b>${esc(fonte)}</b><small>${l.length} ${l.length === 1 ? 'busca' : 'buscas'}</small></div></header><div class="chips-linha">${l.map((t) => `<span class="chip">${esc(t)}</span>`).join('')}</div></article>`).join('')}</div>`;
 }
 const ROT_ETAPA_BIB = { roteiro: 'Roteiro', narracao: 'Narração', video: 'Vídeo', final: 'Final', capa: 'Capa', legenda: 'Legenda', agendado: 'Agendado' };
 const ETAPAS_BIB = Object.keys(ROT_ETAPA_BIB);

diff --git a/central/escritorio/web/app.css b/central/escritorio/web/app.css
@@ -846,3 +846,79 @@ table.cal tr.passado td { opacity: .6; }
 .views-bib { flex: none; width: 64px; text-align: center; padding: 8px 0; border-radius: 16px; background: var(--app-container); }
 .views-bib b { display: block; font: 700 16px/1.2 var(--fonte); color: var(--app-on); } .views-bib small { font-size: 11px; color: var(--app-on); }
 .chips-ref { display: flex; flex-wrap: wrap; gap: 6px; }
+
+/* ---- segunda passada: nada de "HTML sem CSS" em nenhuma tela ---- */
+/* ação no meio do texto: botão de texto na cor do app (nunca link sublinhado) */
+.bt-texto { display: inline-flex; align-items: center; gap: 6px; min-height: 28px; padding: 0 10px; margin: 0 -2px; border: 0; border-radius: 999px; background: none;
+  color: var(--app); font: 650 inherit/1 var(--fonte); font-size: inherit; cursor: pointer; vertical-align: baseline; text-decoration: none; }
+.bt-texto:hover { background: var(--app-container); color: var(--app-on); }
+.bt-texto:focus-visible { outline: none; box-shadow: var(--foco); }
+.bt-texto canvas, .bt-texto img { flex: none; }
+button.mais-k { width: 100%; justify-content: center; }
+/* aviso dentro de um cartão: faixa com tom (sem borda colorida à esquerda) */
+.alerta-tonal { display: flex; align-items: center; gap: 12px; flex-wrap: wrap; padding: 12px 14px; border-radius: 16px; background: var(--espera-fundo); color: var(--espera-texto); font-size: 13.5px; line-height: 1.45; }
+.alerta-tonal > svg { width: 20px; height: 20px; flex: none; fill: none; stroke: currentColor; stroke-width: 2; stroke-linecap: round; stroke-linejoin: round; }
+.alerta-tonal > .cresce { flex: 1 1 240px; min-width: 0; }
+.alerta-tonal.erro { background: var(--erro-fundo); color: var(--erro-texto); } .alerta-tonal.dica { background: var(--producao-fundo); color: var(--producao-texto); }
+.alerta-tonal .bt.fantasma { color: inherit; } .alerta-tonal .bt.fantasma:hover { background: rgba(0, 0, 0, .06); }
+.linha-item.achado { box-shadow: none; } .achado::before { content: none; }
+.linha-item.achado.alto { background: var(--erro-fundo); color: var(--erro-texto); } .linha-item.achado.medio { background: var(--espera-fundo); color: var(--espera-texto); }
+.linha-item.achado.dica { background: var(--producao-fundo); color: var(--producao-texto); }
+.linha-item.achado small, .linha-item.achado .neutro, .linha-item.achado em { color: inherit; }
+/* cartão com cabeçalho: ícone em quadrado, título e chip de estado */
+.cab-cartao { display: flex; align-items: center; gap: 12px; min-width: 0; }
+.cab-cartao > .cresce { flex: 1 1 auto; display: flex; flex-direction: column; gap: 2px; min-width: 0; }
+.cab-cartao > .cresce b { font-size: 15px; font-weight: 650; color: var(--texto); } .cab-cartao > .cresce small { font-size: 12.5px; color: var(--texto-2); overflow: hidden; text-overflow: ellipsis; white-space: nowrap; }
+.cab-cartao > .chip { flex: none; }
+.ic-tile { flex: none; width: 44px; height: 44px; border-radius: 14px; display: grid; place-items: center; background: var(--app-container); color: var(--app-on); font: 700 15px var(--fonte); }
+.ic-tile svg { width: 22px; height: 22px; fill: none; stroke: currentColor; stroke-width: 1.8; stroke-linecap: round; stroke-linejoin: round; }
+.chips-linha { display: flex; flex-wrap: wrap; gap: 6px; }
+.acoes-cartao { display: flex; flex-wrap: wrap; align-items: center; gap: 8px; margin-top: auto; padding-top: 4px; }
+/* Conexões */
+.kpis-conexao { margin: 16px 0 4px; } .kpis-conexao .kpi strong { font-size: 24px; }
+.cartao-conexao { display: flex; flex-direction: column; gap: 12px; padding: 20px; min-width: 0; }
+.cartao-conexao > .sub { margin: 0; font-size: 13.5px; line-height: 1.5; }
+.limite-conexao { margin: 0; padding: 8px 12px; border-radius: 12px; background: var(--superficie); color: var(--texto-2); font-size: 12.5px; line-height: 1.45; }
+.metricool-conf { margin: 16px 0 8px; }
+.grade-conexoes { display: grid; grid-template-columns: repeat(auto-fill, minmax(min(100%, 400px), 1fr)); gap: 16px; align-items: stretch; }
+.rede-tab { display: inline-flex; align-items: center; gap: 10px; } .rede-tab b { font-weight: 650; }
+.tab-redes td { padding-top: 10px; padding-bottom: 10px; }
+/* controle segmentado pequeno (ligada/desligada), botões de verdade com aria-pressed */
+.seg-mini { display: inline-flex; padding: 3px; gap: 2px; border-radius: 999px; background: var(--superficie); }
+.seg-mini button { height: 30px; padding: 0 14px; border: 0; border-radius: 999px; background: none; color: var(--texto-2); font: 600 13px var(--fonte); cursor: pointer; }
+.seg-mini button:hover { color: var(--texto); }
+.seg-mini button[aria-pressed="true"] { background: var(--cartao); color: var(--app); box-shadow: 0 1px 2px rgba(27, 28, 32, .12); }
+.seg-mini button:focus-visible { outline: none; box-shadow: var(--foco); }
+/* select com tom (dentro de tabelas e cartões): pílula cinza, sem cara de controle do sistema */
+.janela select.sel-tonal, .tab select { height: 34px !important; min-width: 180px; padding: 0 34px 0 14px !important; border: 0 !important; border-radius: 999px !important; background-color: var(--superficie) !important;
+  font-size: 13px !important; font-weight: 600; color: var(--texto); background-position: right 10px center !important; box-shadow: none !important; }
+.janela select.sel-tonal:hover, .tab select:hover { background-color: var(--superficie-alta) !important; }
+.janela select.sel-tonal:focus, .tab select:focus { box-shadow: var(--foco) !important; }
+/* Biblioteca: concorrentes, nichos e referências (segunda passada) */
+.cartao-pesquisa { gap: 14px; padding: 18px; }
+.bloco-pesquisa { display: flex; flex-direction: column; gap: 8px; } .bloco-pesquisa > small { font-size: 12px; font-weight: 600; color: var(--texto-2); }
+.bloco-pesquisa p { margin: 0; font-size: 13px; }
+.chip-link { display: inline-flex; align-items: center; gap: 6px; height: 30px; padding: 0 12px; border-radius: var(--r-chip); border: 1px solid var(--contorno-forte); background: var(--cartao);
+  color: var(--app); font-size: 13px; font-weight: 600; text-decoration: none; max-width: 100%; overflow: hidden; text-overflow: ellipsis; white-space: nowrap; }
+.chip-link:hover { background: var(--app-container); border-color: transparent; color: var(--app-on); }
+.chip-link:focus-visible { outline: none; box-shadow: var(--foco); }
+.chip-link span { font-size: 12px; }
+a.bt { text-decoration: none; }
+.grade-pilares { grid-template-columns: repeat(auto-fill, minmax(180px, 1fr)); }
+.pilar-bib { gap: 2px; padding: 16px; background: var(--app-container); }
+.pilar-bib strong { font: 700 28px/1.1 var(--fonte); color: var(--app-on); font-variant-numeric: tabular-nums; }
+.pilar-bib b { margin-top: 6px; font-size: 14px; font-weight: 650; color: var(--app-on); line-height: 1.3; } .pilar-bib small { color: var(--app-on); opacity: .8; }
+.medidor-nicho { display: flex; align-items: center; gap: 8px; margin-top: 4px; }
+.medidor { width: 88px; height: 8px; border-radius: 4px; background: var(--contorno-suave); overflow: hidden; flex: none; }
+.medidor i { display: block; height: 100%; border-radius: 4px; background: var(--app); }
+.medidor-nicho { flex-wrap: wrap; row-gap: 2px; } .cab-cartao .medidor-nicho small, .medidor-nicho small { font-size: 12px; color: var(--texto-2); white-space: nowrap; overflow: visible; text-overflow: clip; }
+.dor-ganho { display: grid; gap: 8px; }
+.dor-ganho > div { padding: 10px 12px; border-radius: 12px; } .dor-ganho .dor { background: var(--erro-fundo); color: var(--erro-texto); } .dor-ganho .ganho { background: var(--pronto-fundo); color: var(--pronto-texto); }
+.dor-ganho small { display: block; font-size: 12px; font-weight: 700; margin-bottom: 2px; } .dor-ganho p { margin: 0; font-size: 13px; line-height: 1.45; user-select: text; }
+.ref-bib { align-items: center; gap: 16px; padding: 16px; }
+.views-bib { width: 72px; height: 72px; padding: 0; display: flex; flex-direction: column; align-items: center; justify-content: center; border-radius: 18px; background: var(--app-container); }
+.views-bib b { font: 700 19px/1.1 var(--fonte); font-variant-numeric: tabular-nums; } .views-bib small { font-size: 11.5px; font-weight: 600; }
+.views-bib.alta { background: var(--app); } .views-bib.alta b, .views-bib.alta small { color: #fff; }
+.ref-bib .cresce { gap: 6px; } .ref-bib .cresce > b { font-size: 15px; line-height: 1.35; }
+.ref-bib p { margin: 2px 0 0; font-size: 13px; color: var(--texto); } .ref-bib p span { display: block; font-size: 12px; font-weight: 600; color: var(--texto-2); }
+.ref-bib > .bt { flex: none; align-self: center; }
